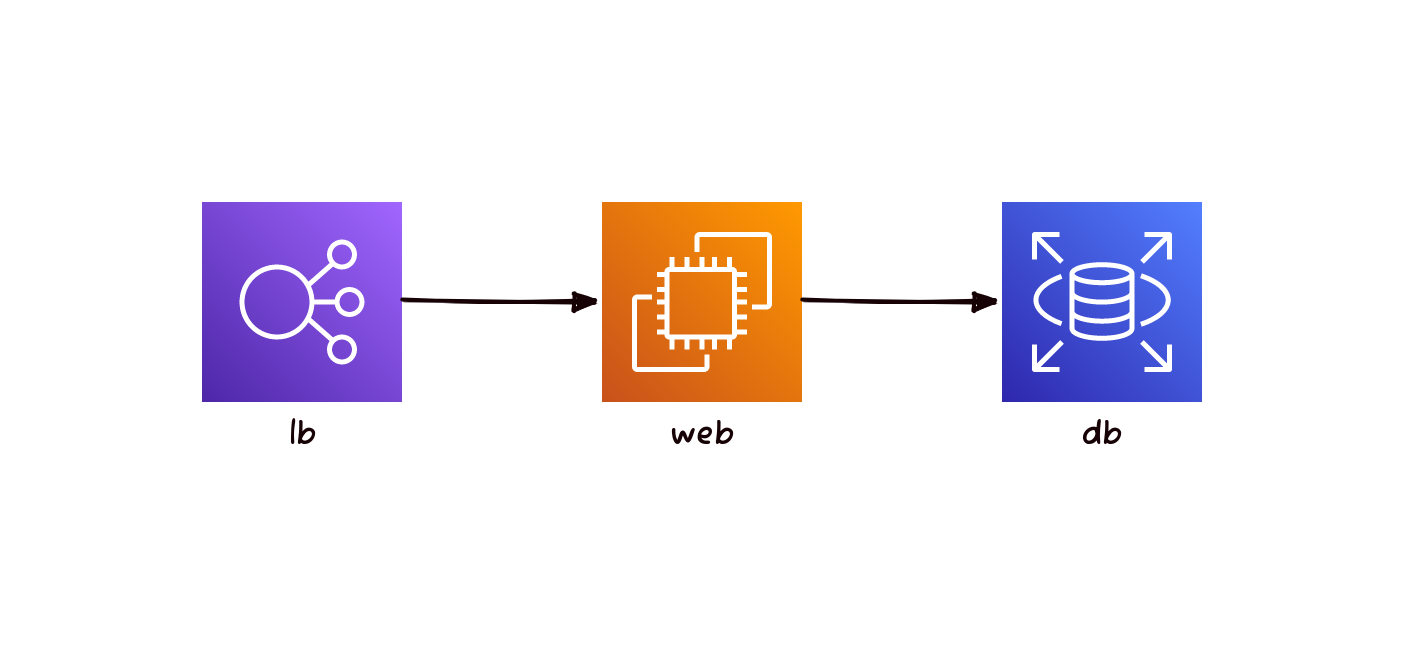
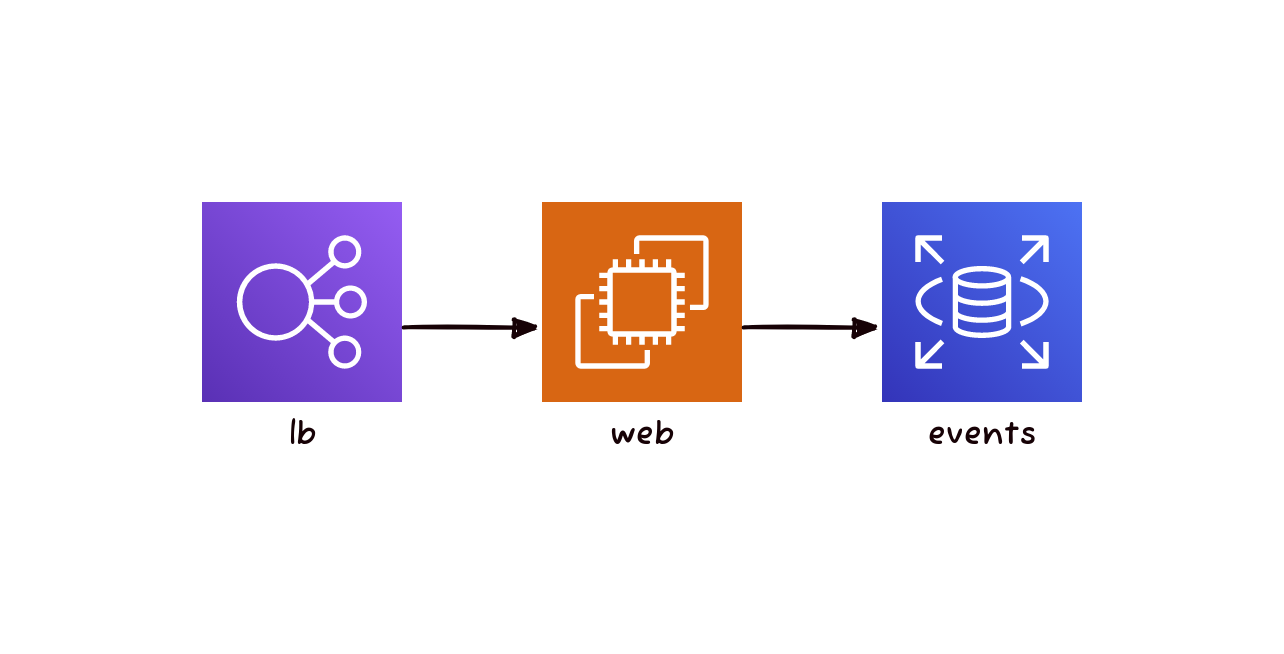
d2 update 3

diff --git a/temp/d2/index.md b/temp/d2/index.md
@@ -14,6 +14,7 @@ categories:
 ---
 
 
+## 개요
 클라우드의 솔루션 아키텍트는 아키텍쳐 다이어그램을 자주 그리게 됩니다.
 다이어그램을 그리는 도구는 여러가지가 있는데 [Draw.io](https://www.drawio.com)같은 서비스가 대표적입니다.
 이런 도구는 GUI로 다이어그램을 그리게 되는데 의외로 많은 시간이 소모됩니다.
@@ -31,6 +32,7 @@ categories:
 그래서 D2로 Dirgrams 예제를 똑같이 그려보면서 클라우드 아키텍처 Tool로 적합한지 알아보려고 합니다.
 
 
+## 첫번째 예제
 Diagrams의 [Quick Start](https://diagrams.mingrammer.com)에는 아래 예제가 있습니다.
 
 ```python
@@ -80,18 +82,57 @@ lb -> ec2 -> db
 ![web services diagram(d2)](example1.png)
 
 간단한 그림이므로 거의 유사하게 만들수 있습니다. 
-">>" 연산자가 -> 으로 변경되었습니다.
+\>\> 연산자가 -> 으로 변경되었습니다.
 다만 Diagrams에서는 각 항목이 인스턴스객체로 쉽게 불러올 수 있으나 D2에서는 직접 그림파일을 이용하여 shape로 지정해야되는 불편함이 있습니다.
 D2에 Class기능과 Import기능이 있습니다.
 이것들을 이용하여 아래와 같이 바꿔보겠습니다.
 
-먼저 Class역할을 해줄 파일을 만듭니다.
+먼저 Class역할을 해줄 파일을 만듭니다. 이 파일은 models.d2로 이름 붙이겠습니다.
+```
+classes:{
+lb: {
+  shape: image
+  icon: https://icons.terrastruct.com/aws%2FNetworking%20&%20Content%20Delivery%2FElastic-Load-Balancing.svg
+  width: 100
+  height: 100
+}
 
+ec2: {
+  shape: image
+  icon: https://icons.terrastruct.com/aws%2FCompute%2FAmazon-EC2_light-bg.svg
+  width: 100
+  height: 100
+}
+
+db: {
+  shape: image
+  icon: https://icons.terrastruct.com/aws%2FDatabase%2FAmazon-RDS.svg
+  width: 100
+  height: 100
+}
+}
+```
  
-그리고 이렇게 파일을 작성하면 똑같은 결과를 보여줍니다.
+그리고 이렇게 models파일을 import하면 똑같은 결과를 보여줍니다.
+```
+direction: right
 
+...@models.d2
 
+lb.class: lb
+ec2.class: ec2
+ec2.label: web
+db.class: db
+db.label: events
+
+lb -> ec2 -> db
+```
+
+## 두번째 예제
 두번째 예제는 Diagrams에 있는 Examples중 첫번째 예제입니다.
+
+[링크](https://diagrams.mingrammer.com/docs/getting-started/examples#grouped-workers-on-aws)
+
 Grouped Workers on AWS
 ```python
   from diagrams import Diagram
@@ -108,74 +149,55 @@ Grouped Workers on AWS
 ```
 ![grouped_workers_diagram](grouped_workers_diagram.png)
 각 항목이 인스턴스이므로 이 인스턴스들을 리스트로 만들수 있고 한번에 연결 명령을 줄 수 있습니다.
+이것을 D2에서는 어떻게 할 수 있을까요? 아쉽게도 D2에는 그룹기능은 없습니다. 비슷한 개념으로 Container라는것이 있지만 그룹과는 조금 다른 개념이므로 다음 예제에서 설명하겠습니다.
+아래 처럼 모든 worker에대해 각각 연결 관계를 작성해야 합니다.
+
+```
+direction: down
+
+...@models2.d2
+
+lb.class: lb
+worker1.class: ec2
+worker2.class: ec2
+worker3.class: ec2
+worker4.class: ec2
+worker5.class: ec2
+db.class: db
+db.label: events
+
+lb -> worker1 -> db
+lb -> worker2 -> db
+lb -> worker3 -> db
+lb -> worker4 -> db
+lb -> worker5 -> db
+
+```
+
+여기서 하나 더 설명할 개념으로 Layout이란 개념이 있습니다. Layout은 다이어그램을 어떻게 배치할지를 결정하는 엔진입니다. D2에서는 Darge, Elk, TALA 이렇게 3개의 Layout엔진을 지원합니다. Layout이란 개념이 그래도 잘 모르겠다면 직접 그려보면서 눈으로 확인해보십다.
+D2에서 그림을 추출하는 명령은 아래와 같습니다. 
+```bash
+d2 -s -t 302 -l darge example.d2 example2new_darge.png
+```
+여기서 -s는 스케치 버전으로 그리겠다는 것이고 -t 302는 테마를 지정하는것입니다. 
+스케치 버전과 테마는 공식 문서를 참고하시기 바랍니다.
+-l 이 layout을 지정하는것으로 darge를 지정한것입니다. 
+그리고 d2파일, 출력파일 순으로 작성하면 됩니다.
+
+먼저 [Darge](https://d2lang.com/tour/dagre)버전으로 그려보았습니다.
+![Darge Layout](example2new_darge.png)
+
+[Elk](https://d2lang.com/tour/elk)버전으로 그려보겠습니다.
+![Elk Layout](example2new_elk.png)
+
+앞의 두 레이아웃은 무료로 사용할 수 있지만 [Tala](https://d2lang.com/tour/tala)는 유료로 사용해야 합니다. 단 평가 목적일 때는 무료로 사용 가능하다고 하니 본 블로그 글 목적으로는 사용해도 무방하리라 판단하였습니다.
+![Tala Layout](example2new_tala.png)
 
 
+세 레이아웃 중 어떤 것이 가장 좋은가요? 이것은 개인의 호불호에 따라 달라질 것 같습니다. 객관적인 평가는 하지 않고 제 개인적으로는 무료로 사용 가능한 Elk방식이 나은듯 합니다.
 
-![Darge](example2new_darge.png)
-![Elk](example2new_elk.png)
 
-  ```text
-  direction: down
-  
-  lb: "lb" {
-    shape: image
-    icon: https://icons.terrastruct.com/aws%2FNetworking%20&%20Content%20Delivery%2FElastic-Load-Balancing.svg
-    width: 100
-    height: 100
-  }
-  
-  worker1: {
-    shape: image
-    icon: https://icons.terrastruct.com/aws%2FCompute%2FAmazon-EC2_light-bg.svg
-    width: 100
-    height: 100
-  }
-  worker2: {
-    shape: image
-    icon: https://icons.terrastruct.com/aws%2FCompute%2FAmazon-EC2_light-bg.svg
-    width: 100
-    height: 100
-  }
-  worker3: {
-    shape: image
-    icon: https://icons.terrastruct.com/aws%2FCompute%2FAmazon-EC2_light-bg.svg
-    width: 100
-    height: 100
-  }
-  worker4: {
-    shape: image
-    icon: https://icons.terrastruct.com/aws%2FCompute%2FAmazon-EC2_light-bg.svg
-    width: 100
-    height: 100
-  }
-  worker5: {
-    shape: image
-    icon: https://icons.terrastruct.com/aws%2FCompute%2FAmazon-EC2_light-bg.svg
-    width: 100
-    height: 100
-  }
-  
-  db: "events" {
-    shape: image
-    icon: https://icons.terrastruct.com/aws%2FDatabase%2FAmazon-RDS.svg
-    width: 100
-    height: 100
-  }
-  
-  lb -> worker1 -> db
-  lb -> worker2 -> db
-  lb -> worker3 -> db
-  lb -> worker4 -> db
-  lb -> worker5 -> db
-  
-  ```
-
-  ```bash
-  d2 -s -t 302 -l elk example2.d2 exmaple2_elk.png
-  d2 -s -t 302 -l dagre example2.d2 exmaple2_darge.png
-  ```
--
-  ```python
+```python
   direction: right
   container1: "" {
     web1
@@ -202,81 +224,11 @@ Grouped Workers on AWS
   container1.web3 -> memcached
   
   container2.userdb -- container2.userdb ro
-  ```
+```
 
-  ```python
-  dns: "dns" {
-    shape: image
-    icon: https://icons.terrastruct.com/aws%2FNetworking%20&%20Content%20Delivery%2FAmazon-Route-53.svg
-    width: 100
-    height: 100
-  }
-    
-  lb: "lb" {
-    shape: image
-    icon: https://icons.terrastruct.com/aws%2FNetworking%20&%20Content%20Delivery%2FElastic-Load-Balancing.svg
-    width: 100
-    height: 100
-  }
-  
-  memcached : "memcached" {
-    shape: image
-    icon: https://icons.terrastruct.com/aws%2FDatabase%2FAmazon-ElastiCache.svg
-    width: 100
-    height: 100
-  }
-      
-  container1.web1: "web1" {
-    shape: image
-    icon: https://icons.terrastruct.com/aws%2FCompute%2FAmazon-Elastic-Container-Service.svg
-    width: 100
-    height: 100
-  }
-   
-  container1.web2: "web2" {
-    shape: image
-    icon: https://icons.terrastruct.com/aws%2FCompute%2FAmazon-Elastic-Container-Service.svg
-    width: 100
-    height: 100
-  }
-    
-  container1.web3: "web3" {
-    shape: image
-    icon: https://icons.terrastruct.com/aws%2FCompute%2FAmazon-Elastic-Container-Service.svg
-    width: 100
-    height: 100
-  }
-  container2.userdb: "uesrdb" {
-    shape: image
-    icon: https://icons.terrastruct.com/aws%2FDatabase%2FAmazon-RDS.svg
-    width: 100
-    height: 100
-  }
-  
-  container2.userdb ro: "uesrdb ro" {
-    shape: image
-    icon: https://icons.terrastruct.com/aws%2FDatabase%2FAmazon-RDS.svg
-    width: 100
-    height: 100
-  }
-  
-  direction: right
-  container1: "Services" {
-    web1
-    web2
-    web3
-  }
-  
-  container2: "DB Cluster" {
-    userdb
-    userdb ro
-  }
-  
-  dns -> lb
-  lb -> container1
-  container1 -> container2.userdb
-  container2.userdb -- container2.userdb ro
-  container1 -> memcached
-  ```
-Diagrams 리포지토리 : [https://github.com/mingrammer/diagrams](https://github.com/mingrammer/diagrams)
-D2 리포지토리: [https://github.com/terrastruct/d2](https://github.com/terrastruct/d2)
+
+참고
+
+D2 리포지토리: https://github.com/terrastruct/d2
+
+Diagrams 리포지토리: https://github.com/mingrammer/diagrams
